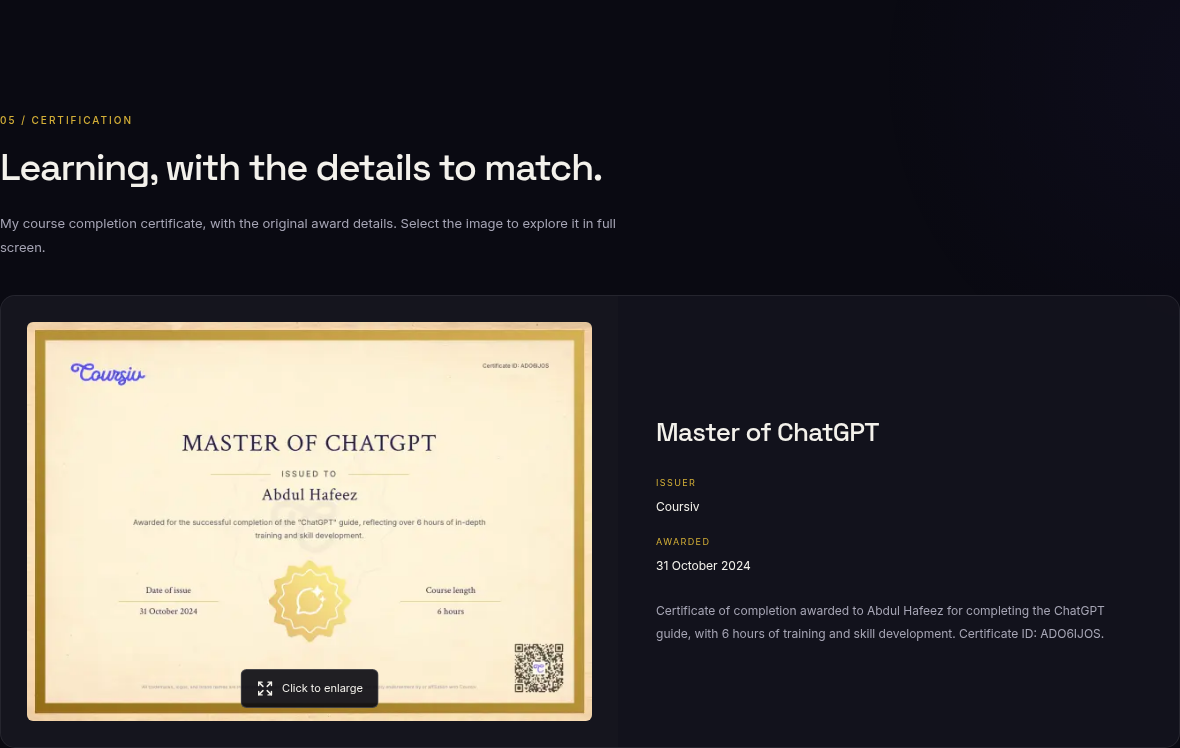
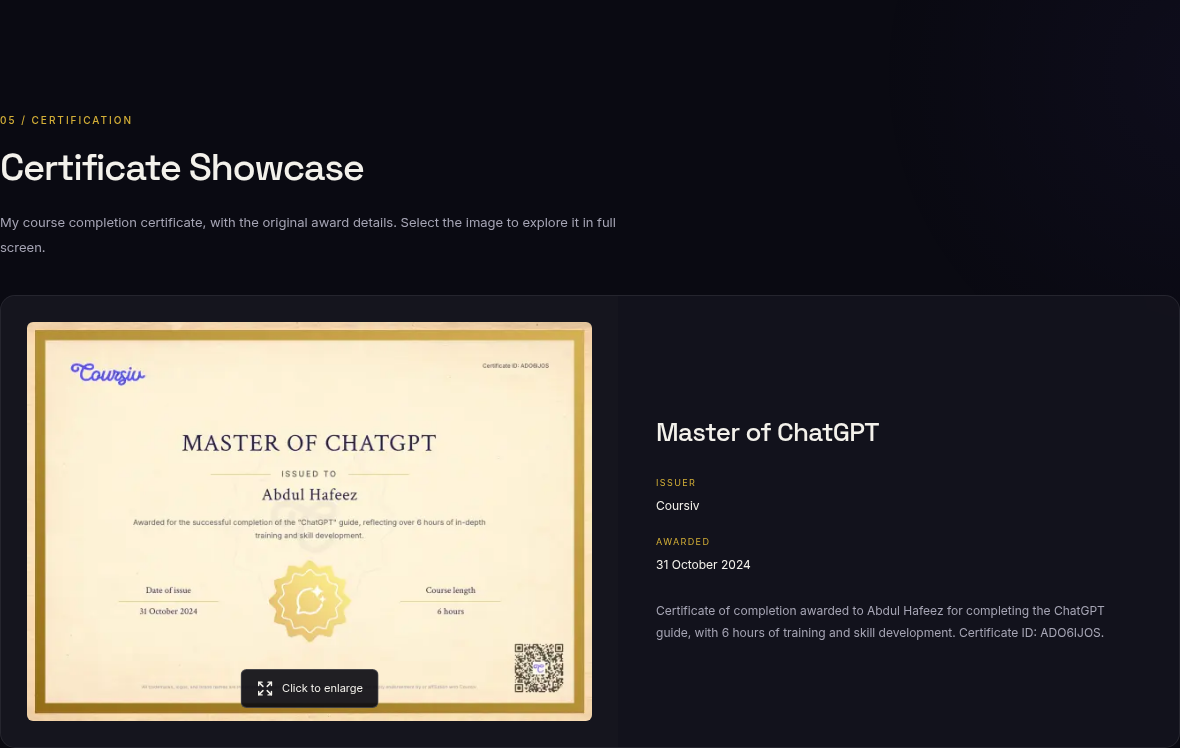
Update Elvora branding and personalize About Me

diff --git a/data/experience.ts b/data/experience.ts
@@ -1,25 +1,28 @@
 export const experience = {
-  eyebrow: "03 / A CONSIDERED APPROACH",
-  title: "My Experience With AI Tools",
-  lead: "Turning AI output into production-quality work.",
-  description:
-    "The idea that AI can build everything on its own overlooks the work behind a professional result: structured prompts, validation, testing, and refinement. The quality comes from how the output is directed, checked, and improved.",
-  factsLabel: "PERSONAL EXAMPLES",
+  eyebrow: "03 / THE PERSON BEHIND ELVORA",
+  title: "About Me",
+  lead: "2+ years of experience. Thoughtful use of AI. An understanding of the full stack.",
+  paragraphs: [
+    "I'm Abdul Hafeez, the developer behind Elvora. With more than two years of experience, I work on websites and AI chatbot experiences that bring business ideas into a practical, usable form. I've invested a great deal of time in learning how to work with AI tools: understanding their strengths, recognizing their limits, and improving the results through clear direction and careful review.",
+    "It's easy to think that anyone can ask AI to build a website and receive a professional product. Getting a useful first draft is only the beginning. A strong result needs a well-structured prompt, the right context, sensible design decisions, and repeated testing. My contribution is in shaping the requirements, checking the generated work, and refining the details until the experience feels considered and works as intended.",
+    "I also believe in understanding what runs beneath the interface. Frontend code shapes how people interact with a website; backend logic handles requests and business rules; a database stores and organizes information; and deployment, security, and maintenance keep the product available and protected. AI can assist with each layer, but making them work together still takes technical understanding, judgment, and responsibility.",
+  ],
+  factsLabel: "HOW I WORK",
   factsNote:
-    "Only verified details belong here. No years of experience, client counts, or testimonials have been supplied.",
+    "Time spent learning the tools matters. The real value comes from the decisions, checks, and refinements made along the way.",
   facts: [
     {
-      label: "Tools I have actually used",
-      value: "[PLACEHOLDER] Add the AI tools you have personally used.",
+      label: "Experience",
+      value: "More than two years of experience, with time dedicated to learning and working with AI tools.",
     },
     {
-      label: "A real workflow example",
-      value: "[PLACEHOLDER] Describe your task, prompts, and own contribution.",
+      label: "Prompting with purpose",
+      value: "Clear goals, relevant context, and specific constraints help turn a broad idea into useful output.",
     },
     {
-      label: "Validation and refinement",
+      label: "Engineering beyond the prompt",
       value:
-        "[PLACEHOLDER] Add a factual example of what you tested and improved.",
+        "Review the frontend, backend, data flow, and deployment together, then test and refine the complete experience.",
     },
   ],
   process: [

diff --git a/data/site.ts b/data/site.ts
@@ -7,8 +7,8 @@ const netlifyUrl =
 
 export const site = {
   brand: "Elvora",
+  logo: { src: "/elvora-logo.svg" },
   name: "Abdul Hafeez",
-  initials: "AH",
   role: "AI Chatbot & Web Developer",
   url:
     process.env.NEXT_PUBLIC_SITE_URL ||
@@ -23,7 +23,7 @@ export const site = {
   nav: [
     { label: "Work", href: "#work" },
     { label: "AI Bots", href: "#ai-bots" },
-    { label: "Experience", href: "#experience" },
+    { label: "About Me", href: "#experience" },
     { label: "Skills", href: "#skills" },
     { label: "Certification", href: "#certification" },
     { label: "Contact", href: "#contact" },
@@ -79,7 +79,7 @@ export const site = {
   footer: "Designed with care. Built with intention.",
   ui: {
     skip: "Skip to content",
-    home: "Elvora. — Home",
+    home: "Elvora — Home",
     menuOpen: "Open navigation",
     menuClose: "Close navigation",
     light: "Switch to light theme",

diff --git a/components/navbar.tsx b/components/navbar.tsx
@@ -3,6 +3,7 @@
 import { useEffect, useRef, useState } from "react";
 import { Menu, Moon, Sun, X } from "lucide-react";
 import { site } from "@/data/site";
+import { BrandMark } from "./brand-mark";
 
 export function Navbar({ identity }: { identity: { brand: string } }) {
   const [open, setOpen] = useState(false);
@@ -58,11 +59,10 @@ export function Navbar({ identity }: { identity: { brand: string } }) {
         <a
           href="#top"
           className="wordmark"
-          aria-label={`${identity.brand}. — Home`}
+          aria-label={`${identity.brand} — Home`}
           onClick={() => setOpen(false)}
         >
-          {identity.brand}
-          <span aria-hidden="true">.</span>
+          <BrandMark brand={identity.brand} />
         </a>
         <div className="desktop-nav">
           {site.nav.map((item) => (

diff --git a/components/footer.tsx b/components/footer.tsx
@@ -1,12 +1,12 @@
 import { BackToTop } from "./back-to-top";
 import { site } from "@/data/site";
+import { BrandMark } from "./brand-mark";
 
 export function Footer({ brand }: { brand: string }) {
   return (
     <footer className="container footer">
-      <a href="#top" className="wordmark" aria-label={`${brand}. — Home`}>
-        {brand}
-        <span aria-hidden="true">.</span>
+      <a href="#top" className="wordmark" aria-label={`${brand} — Home`}>
+        <BrandMark brand={brand} />
       </a>
       <p>
         © {new Date().getFullYear()} {brand}

diff --git a/components/experience.tsx b/components/experience.tsx
@@ -29,7 +29,11 @@ export function Experience() {
             <h2 id="experience-title">{copy.title}</h2>
             <p className="experience-lead">{copy.lead}</p>
           </div>
-          <p>{copy.description}</p>
+          <div className="about-story">
+            {copy.paragraphs.map((paragraph) => (
+              <p key={paragraph}>{paragraph}</p>
+            ))}
+          </div>
         </div>
       </Reveal>
       <div className="process-grid">

diff --git a/data/certificates.ts b/data/certificates.ts
@@ -25,7 +25,7 @@ export const certificates: Certificate[] = [
 ];
 export const certificateContent = {
   eyebrow: "05 / CERTIFICATION",
-  title: "Learning, with the details to match.",
+  title: "Certificate Showcase",
   description:
     "My course completion certificate, with the original award details. Select the image to explore it in full screen.",
   placeholder: "[PLACEHOLDER] Certificate image pending",

diff --git a/components/hero.tsx b/components/hero.tsx
@@ -39,7 +39,7 @@ export function Hero() {
         <div className="portrait-orbit" aria-hidden="true" />
         <figure className="portrait-card">
           <div className="portrait-topline">
-            <span>{site.initials} / 01</span>
+            <span>{site.brand.toUpperCase()} / 01</span>
             <span className="status-dot" />
           </div>
           <div className="portrait-image">

diff --git a/app/profile.css b/app/profile.css
@@ -16,12 +16,16 @@
   grid-template-columns: minmax(0, 1fr) minmax(0, 1fr);
   gap: 70px;
   margin-top: 17px;
-  align-items: end;
+  align-items: start;
 }
-.experience-intro > p {
+.about-story {
+  display: grid;
+  gap: 18px;
+}
+.about-story p {
   color: var(--muted);
   line-height: 1.95;
-  font-size: 12px;
+  font-size: 14px;
 }
 .experience-lead {
   margin-top: 18px;

diff --git a/components/brand-mark.tsx b/components/brand-mark.tsx
@@ -1,0 +1,18 @@
+import Image from "next/image";
+import { site } from "@/data/site";
+
+export function BrandMark({ brand }: { brand: string }) {
+  return (
+    <>
+      <Image
+        className="brand-symbol"
+        src={site.logo.src}
+        alt=""
+        width={44}
+        height={44}
+        aria-hidden="true"
+      />
+      {brand}
+    </>
+  );
+}

diff --git a/app/globals.css b/app/globals.css
@@ -224,9 +224,19 @@ h3,
   gap: 30px;
 }
 .wordmark {
+  display: inline-flex;
+  align-items: center;
+  gap: 12px;
+  flex-shrink: 0;
   font-size: 30px;
   font-weight: 600;
   letter-spacing: -2px;
+}
+.brand-symbol {
+  width: 44px;
+  height: 44px;
+  flex-shrink: 0;
+  border-radius: 12px;
 }
 .wordmark span {
   color: var(--gold);

diff --git a/delivery/01-root.md b/delivery/01-root.md
@@ -351,7 +351,11 @@ Chat logging is **off by default**. If enabled in site settings, the last user m
 
 ## Netlify
 
-Import the reviewed GitHub branch into your Netlify account using the provided `netlify.toml`: `npm run build`, publish `.next`, Node 24 and the Next.js adapter. Do not upload the source folder as static HTML; API routes/auth need the Next.js runtime. Configure the same private services/Redis/origin variables. Verify outbound SMTP support; if your host blocks it, keep the email link and move delivery to an allowed email API before launch. No live Netlify site is claimed without a successful deploy and public URL verification.
+The complete portfolio is on GitHub's `main` branch, including the Elvora logo, About Me section and supplied Coursiv certificate. The older main version displayed AH and contained only Parts 1/2. For the owner's existing `portfolio3821.netlify.app` project, select repository `AbdulHafeezAIEngineer/portfoli` and production branch `main` in Netlify's continuous deployment settings. Once linked, pushes to `main` trigger a build. If automatic builds are disabled, choose **Deploys → Trigger deploy → Deploy site**. Use **Clear cache and deploy site** only if a successful build still serves stale assets.
+
+Use the provided `netlify.toml`: `npm run build`, publish `.next`, Node 24 and the Next.js adapter. Do not upload the source folder as static HTML; API routes/auth need the Next.js runtime. Set `NEXT_PUBLIC_SITE_URL` and `NEXTAUTH_URL` to `https://portfolio3821.netlify.app` unless using a new custom domain. Configure the same private services/Redis/origin variables. Keep `CONTENT_SOURCE=files` for the included file-based content. Existing database records are preserved by seeding; update them in `/admin` when choosing database mode.
+
+Verify outbound SMTP support; if your host blocks it, keep the email link and move delivery to an allowed email API before launch. No successful Netlify deployment is claimed without a completed hosting build and public URL verification. The cloud environment could not access the owner's Netlify URL (HTTP/CONNECT 403), so local checks do not establish the current live-site state. The framework security limitation at the top of this document remains outstanding.
 
 ## Headers and launch checks
 
@@ -379,7 +383,9 @@ Before launch:
 
 Brand: **Elvora**. Owner: **Abdul Hafeez**. Public contact: **buildwithelvora@gmail.com** only. No phone, WhatsApp or social-profile links.
 
-The expanded complete brief retains these personal preferences. Unsupplied real AI-tool/workflow facts remain `[PLACEHOLDER]` in `data/experience.ts` and `data/skills.ts`. No experience duration, client totals or testimonials are invented.
+The About Me section now uses the owner's supplied **more than two years of experience** and time invested in AI tools. It explains structured prompts, review, testing, refinement and the frontend/backend/database/deployment fundamentals behind a working site. Specific AI-tool names remain `[PLACEHOLDER]` in `data/skills.ts`; no client totals, testimonials or named tools are invented.
+
+The supplied E-and-amber-dot logo is represented as a scalable SVG in `public/elvora-logo.svg` and the favicon in `app/icon.svg`. The navbar and footer pair it with the **Elvora** wordmark. The portrait caption also uses the brand instead of AH.
 
 The supplied Coursiv certificate is now showcased: **Master of ChatGPT**, issued to **Abdul Hafeez** on **31 October 2024**, for a **6-hour** course. Certificate ID: **ADO6IJOS**. These details are transcribed from the uploaded PDF; no external credential verification is claimed. This is described as a course completion certificate, not an academic degree.
 
@@ -438,12 +444,12 @@ All editable portfolio content starts in `data/`. `lib/content-loader.ts` is the
 - `data/site.ts`: Elvora identity, Abdul Hafeez's introduction, Gmail, navigation and shared UI text.
 - `data/projects.ts`, `demos.ts`: concept descriptions, actual screenshot paths, design highlights, optional promo prompts and demo copy.
 - `data/bots.ts`: bot cards, disclosures, one `realBotConfig` object for iframe/script/API, and an optional `additionalBots` list for adding data-configured connections. `data/prompts/` contains the three server-only demo prompts.
-- `data/experience.ts`, `skills.ts`: honest workflow explanations and explicitly missing personal facts; no invented years, client counts or testimonials.
+- `data/experience.ts`, `skills.ts`: About Me, the owner's supplied 2+ years of experience, AI workflow explanations and remaining tool-name placeholders; no invented client counts or testimonials.
 - `data/certificates.ts`: supplied Master of ChatGPT certificate details and image, click-to-enlarge/zoom viewer.
 - `data/contact.ts`, `admin.ts`: validated form content and admin labels/field definitions.
 - `public/portrait-placeholder.svg`: replace with the owner's actual portrait and update its alt/placeholder wording in `data/site.ts`.
 
-The only public contact is **buildwithelvora@gmail.com**. No WhatsApp, phone or social profiles are displayed. The supplied Coursiv Master of ChatGPT certificate is displayed with its 31 October 2024 issue date and 6-hour course duration. Personal AI-tool/workflow facts still need the owner's input. See `PART_3.md` for personalization.
+The only public contact is **buildwithelvora@gmail.com**. No WhatsApp, phone or social profiles are displayed. The supplied Coursiv Master of ChatGPT certificate is displayed with its 31 October 2024 issue date and 6-hour course duration. About Me includes the owner's supplied 2+ years of experience and time invested in AI tools. Specific tool names and the portrait still need the owner's input. See `PART_3.md` for personalization.
 
 ## Backend setup
 
@@ -564,6 +570,7 @@ This is a **review build**, not a verified live deployment. `SECURITY_STATUS.md`
 - Deferred AI-tab/hash navigation, all four bot cards, pending real-bot state, three API demos, per-bot history retained across category changes, clear conversation, accessible modals and mobile chat layout.
 - Production file tracing includes Prisma's query compiler WASM for routes that use the database.
 - Supplied Coursiv certificate update: rendered the original PDF to a 2200×1555 WebP; checked the exact title, issuer, 31 October 2024 date, 6-hour duration and certificate ID against the document. Re-ran lint/typecheck and browser checks at 1440px/390px for image loading, absent placeholder wording, fullscreen zoom, keyboard shortcuts, Escape, focus return and overflow. Preview: `docs/certificate-showcase.png`.
+- Branding/About Me update: E-and-amber-dot SVG logo in navbar/footer/favicon, Elvora wordmark and portrait label, About Me navigation, the owner's supplied 2+ years of experience, three story paragraphs and four full-stack blocks. The production build passed. Browser checks against both development and production passed at 320px–1440px, including mobile navigation and certificate zoom; dark/light axe scans reported no violations. `docs/brand-preview.png`, `docs/about-preview.png` and `docs/mobile-about-preview.png` show this update.
 
 ## Local Lighthouse
 
@@ -581,7 +588,7 @@ Scores vary with device, CPU load, image replacements, network, third-party widg
 ## Still needs real owner configuration/verification
 
 - A patched framework-major decision before external production launch. Current production dependency audit: one critical affected package, Next.js 14; other reported production findings were resolved.
-- Factual AI-tool/workflow examples and the owner's portrait remain clearly marked placeholders. The supplied Coursiv certificate and its award details are now displayed; external issuer verification has not been performed.
+- Specific AI-tool names and the owner's portrait remain clearly marked placeholders. The owner has now supplied 2+ years of experience and time invested in AI tools for About Me. The supplied Coursiv certificate and its award details are displayed; external issuer verification has not been performed.
 - Actual public HTTPS domain, external database/Redis/storage credentials, OpenAI key, real bot connection, Gmail App Password and Cloudflare Turnstile keys in private settings.
 - Live Gmail inbox delivery, real OpenAI/provider replies, actual Blob upload, real Redis REST service and real Turnstile challenge verification. Mock-based checks do not establish these integrations.
 - Native Prisma migration CLI deployment to the owner's cloud database. Its verified engine download was blocked in the current environment; the network draft adds `binaries.prisma.sh` but must be reviewed/saved and published to activate. Initial SQL/seed were independently verified against local PostgreSQL.

diff --git a/delivery/04-data.md b/delivery/04-data.md
@@ -521,7 +521,7 @@ export const certificates: Certificate[] = [
 ];
 export const certificateContent = {
   eyebrow: "05 / CERTIFICATION",
-  title: "Learning, with the details to match.",
+  title: "Certificate Showcase",
   description:
     "My course completion certificate, with the original award details. Select the image to explore it in full screen.",
   placeholder: "[PLACEHOLDER] Certificate image pending",
@@ -812,27 +812,30 @@ export const demoUI = {
 
 ``````typescript
 export const experience = {
-  eyebrow: "03 / A CONSIDERED APPROACH",
-  title: "My Experience With AI Tools",
-  lead: "Turning AI output into production-quality work.",
-  description:
-    "The idea that AI can build everything on its own overlooks the work behind a professional result: structured prompts, validation, testing, and refinement. The quality comes from how the output is directed, checked, and improved.",
-  factsLabel: "PERSONAL EXAMPLES",
+  eyebrow: "03 / THE PERSON BEHIND ELVORA",
+  title: "About Me",
+  lead: "2+ years of experience. Thoughtful use of AI. An understanding of the full stack.",
+  paragraphs: [
+    "I'm Abdul Hafeez, the developer behind Elvora. With more than two years of experience, I work on websites and AI chatbot experiences that bring business ideas into a practical, usable form. I've invested a great deal of time in learning how to work with AI tools: understanding their strengths, recognizing their limits, and improving the results through clear direction and careful review.",
+    "It's easy to think that anyone can ask AI to build a website and receive a professional product. Getting a useful first draft is only the beginning. A strong result needs a well-structured prompt, the right context, sensible design decisions, and repeated testing. My contribution is in shaping the requirements, checking the generated work, and refining the details until the experience feels considered and works as intended.",
+    "I also believe in understanding what runs beneath the interface. Frontend code shapes how people interact with a website; backend logic handles requests and business rules; a database stores and organizes information; and deployment, security, and maintenance keep the product available and protected. AI can assist with each layer, but making them work together still takes technical understanding, judgment, and responsibility.",
+  ],
+  factsLabel: "HOW I WORK",
   factsNote:
-    "Only verified details belong here. No years of experience, client counts, or testimonials have been supplied.",
+    "Time spent learning the tools matters. The real value comes from the decisions, checks, and refinements made along the way.",
   facts: [
     {
-      label: "Tools I have actually used",
-      value: "[PLACEHOLDER] Add the AI tools you have personally used.",
+      label: "Experience",
+      value: "More than two years of experience, with time dedicated to learning and working with AI tools.",
     },
     {
-      label: "A real workflow example",
-      value: "[PLACEHOLDER] Describe your task, prompts, and own contribution.",
+      label: "Prompting with purpose",
+      value: "Clear goals, relevant context, and specific constraints help turn a broad idea into useful output.",
     },
     {
-      label: "Validation and refinement",
+      label: "Engineering beyond the prompt",
       value:
-        "[PLACEHOLDER] Add a factual example of what you tested and improved.",
+        "Review the frontend, backend, data flow, and deployment together, then test and refine the complete experience.",
     },
   ],
   process: [
@@ -1056,8 +1059,8 @@ const netlifyUrl =
 
 export const site = {
   brand: "Elvora",
+  logo: { src: "/elvora-logo.svg" },
   name: "Abdul Hafeez",
-  initials: "AH",
   role: "AI Chatbot & Web Developer",
   url:
     process.env.NEXT_PUBLIC_SITE_URL ||
@@ -1072,7 +1075,7 @@ export const site = {
   nav: [
     { label: "Work", href: "#work" },
     { label: "AI Bots", href: "#ai-bots" },
-    { label: "Experience", href: "#experience" },
+    { label: "About Me", href: "#experience" },
     { label: "Skills", href: "#skills" },
     { label: "Certification", href: "#certification" },
     { label: "Contact", href: "#contact" },
@@ -1128,7 +1131,7 @@ export const site = {
   footer: "Designed with care. Built with intention.",
   ui: {
     skip: "Skip to content",
-    home: "Elvora. — Home",
+    home: "Elvora — Home",
     menuOpen: "Open navigation",
     menuClose: "Close navigation",
     light: "Switch to light theme",
